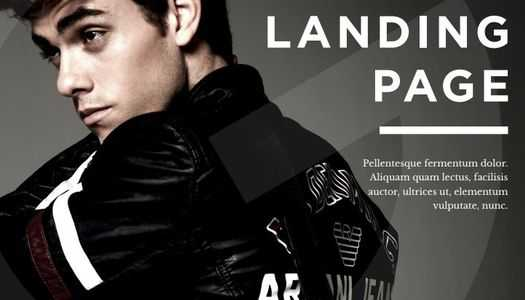
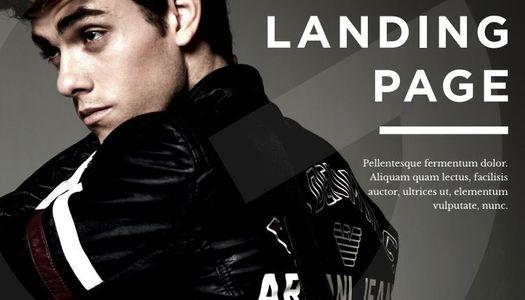
tweaking the mid section and adding dummy page

diff --git a/landing-page-design.html b/landing-page-design.html
@@ -1,0 +1,8 @@
+<!DOCTYPE html><html lang=en><head><meta charset=utf-8><meta http-equiv=X-UA-Compatible content="IE=edge"><meta name=viewport content="width=device-width, initial-scale=1"><title>Nate Hadinata: Digital Design</title><link rel=icon type=image/x-icon href=favicon-nh.ico><style>/*!
+ * Bootstrap v3.3.5 (http://getbootstrap.com)
+ * Copyright 2011-2015 Twitter, Inc.
+ * Licensed under MIT (https://github.com/twbs/bootstrap/blob/master/LICENSE)
+ */img{border:0}body,figure{margin:0}.text-nowrap{white-space:nowrap}.col-xs-12,.col-xs-3,.col-xs-6{float:left}html{font-family:sans-serif;-ms-text-size-adjust:100%;-webkit-text-size-adjust:100%}figcaption,figure,footer,header,section{display:block}a{background-color:transparent;color:#337ab7;text-decoration:none}a:active,a:hover{outline:0}body{background-color:#fff}img{vertical-align:middle}*,:after,:before{-webkit-box-sizing:border-box;-moz-box-sizing:border-box;box-sizing:border-box}html{font-size:10px;-webkit-tap-highlight-color:transparent}body{font-family:"Helvetica Neue",Helvetica,Arial,sans-serif;font-size:14px;line-height:1.42857143;color:#333}a:focus,a:hover{color:#23527c;text-decoration:underline}a:focus{outline:dotted thin;outline:-webkit-focus-ring-color auto 5px;outline-offset:-2px}.img-responsive{display:block;max-width:100%;height:auto}.img-rounded{border-radius:6px}h1,h2,h3,h4{font-family:inherit;font-weight:500;line-height:1.1;color:inherit}h1{margin:20px 0 10px}h2,h3{margin-top:20px}h2,h3,h4{margin-bottom:10px}h4{margin-top:10px}h1{font-size:36px}h2{font-size:30px}h3{font-size:24px}h4{font-size:18px}p{margin:0 0 10px}.text-center{text-align:center}ol,ul{margin-top:0;margin-bottom:10px}@media (min-width:768px){.container{width:750px}}.container{margin-right:auto;margin-left:auto;padding-left:15px;padding-right:15px}@media (min-width:992px){.container{width:970px}}@media (min-width:1200px){.container{width:1170px}}.row{margin-left:-15px;margin-right:-15px}.col-md-12,.col-md-6,.col-sm-6,.col-xs-12,.col-xs-3,.col-xs-6{position:relative;min-height:1px;padding-left:15px;padding-right:15px}.col-xs-12{width:100%}.col-xs-6{width:50%}.col-xs-3{width:25%}@media (min-width:768px){.col-sm-6{float:left;width:50%}}@media (min-width:992px){.col-md-12,.col-md-6{float:left}.col-md-12{width:100%}.col-md-6{width:50%}}.breadcrumb{padding:8px 15px;margin-bottom:20px;list-style:none;background-color:#f5f5f5;border-radius:4px}.breadcrumb>li{display:inline-block}.breadcrumb>li+li:before{content:"/\00a0";padding:0 5px;color:#ccc}.breadcrumb>.active{color:#777}.container:after,.container:before,.row:after,.row:before{content:" ";display:table}.container:after,.row:after{clear:both}.center-block{display:block;margin-left:auto;margin-right:auto}@-ms-viewport{width:device-width}</style><!--[if lt IE 9]>
+ <script src="https://oss.maxcdn.com/html5shiv/3.7.2/html5shiv.min.js"></script>
+ <script src="https://oss.maxcdn.com/respond/1.4.2/respond.min.js"></script>
+ <![endif]--><link rel=stylesheet href=https://maxcdn.bootstrapcdn.com/font-awesome/4.4.0/css/font-awesome.min.css><style>a.button:active,a.button:focus,a.button:hover{text-decoration:none}.footer,.project-footer,div.featured{border-top:1px solid #cfdbdc}@font-face{font-family:Roboto;font-style:normal;font-weight:300;src:local('Roboto Light'),local('Roboto-Light'),url(https://fonts.gstatic.com/s/roboto/v18/KFOlCnqEu92Fr1MmSU5fBBc9.ttf) format('truetype')}@font-face{font-family:Roboto;font-style:normal;font-weight:500;src:local('Roboto Medium'),local('Roboto-Medium'),url(https://fonts.gstatic.com/s/roboto/v18/KFOlCnqEu92Fr1MmEU9fBBc9.ttf) format('truetype')}@font-face{font-family:'Roboto Condensed';font-style:normal;font-weight:300;src:local('Roboto Condensed Light'),local('RobotoCondensed-Light'),url(https://fonts.gstatic.com/s/robotocondensed/v16/ieVi2ZhZI2eCN5jzbjEETS9weq8-33mZGCQYag.ttf) format('truetype')}body{font-family:Roboto,sans-serif;color:#3c5254;background:#e7f0f1;background:linear-gradient(#BED3D6,#e7f0f1 30%);font-size:16px;font-weight:300}a.button,h3,h4{font-weight:500}h1,h2{font-family:'Roboto Condensed',sans-serif}h3{font-size:15px;margin-top:10px}@media screen and (min-width:500px){h3{font-size:16px}}h4,li,p{font-size:1.1em}p{margin:10px 0;line-height:1.8em;letter-spacing:.2px}li{line-height:1.5em}a{color:#00aac0}a:active,a:focus,a:hover{color:#00d1e8}img{background-color:#708d90}.container,.header-bg{background-color:none}.layout-padding-top{padding-top:2em}.layout-padding-bottom{padding-bottom:2em}@media screen and (max-width:500px){.layout-padding-top{padding-top:4em}.layout-padding-bottom{padding-bottom:3em}a.button{text-align:center}}.container{margin:0 auto}header{margin-bottom:15px}.header-bg{background-repeat:no-repeat;height:76px}@media screen and (min-width:500px){.header-bg{height:130px}}.header-logo{background-color:transparent;margin:-3px 0 0 -15px;height:80px;float:left;opacity:.75;transition:opacity .2s}.header-logo:hover{opacity:9;filter:alpha(opacity=90);cursor:pointer}.career-text{font-size:.4em}@media screen and (min-width:500px){.header-logo{height:135px}.career-text{font-size:.6em}}.description{max-width:700px}img.profile{max-width:100%;float:left;margin:0 15px 15px 0}p.profile{margin:0}a.button{background:#f1f1f1;background:-moz-linear-gradient(180deg,#f1f1f1 0,#f1f1f1 80%,#f1f1f1 100%);background:-webkit-linear-gradient(180deg,#f1f1f1 0,#f1f1f1 80%,#f1f1f1 100%);background:linear-gradient(180deg,#f1f1f1 0,#f1f1f1 80%,#f1f1f1 100%);margin:1em 0;display:inline-block;border:1px solid #cfdbdc;padding:14px 30px 15px;border-radius:5px;color:#3c5254;box-shadow:0 2px 2px -1px rgba(0,0,0,.2);transition:all 50ms}a.button:hover{background:#fff;background:-moz-linear-gradient(180deg,#fff 0,#fff 80%,#fff 100%);background:-webkit-linear-gradient(180deg,#fff 0,#fff 80%,#fff 100%);background:linear-gradient(180deg,#fff 0,#fff 80%,#fff 100%);box-shadow:0 3px 3px -1px rgba(0,0,0,.2);transform:scale(1.01)}a.button:active{background:#f1f1f1;background:-moz-linear-gradient(180deg,#f1f1f1 0,#f1f1f1 80%,#f1f1f1 100%);background:-webkit-linear-gradient(180deg,#f1f1f1 0,#f1f1f1 80%,#f1f1f1 100%);background:linear-gradient(180deg,#f1f1f1 0,#f1f1f1 80%,#f1f1f1 100%);box-shadow:0 1px 1px -1px rgba(0,0,0,.2);transform:scale(.99)}div.featured{margin:10px 0 15px}h2.featured{margin:0;color:#708d90;font-size:26px;text-transform:uppercase}@media screen and (min-width:500px){.featured{font-size:30px}}.projects{margin:15px 0 5px}@media screen and (max-width:350px){.projects{width:100%}}@media screen and (min-width:700px){.projects{width:33.33%}}@media screen and (min-width:1200px){.projects{width:25%}}.footer{padding:3em 1em 1em;margin:3em 1em 1em}.footer>div>a{color:#708d90;transition:color .2s}.footer>div>a:active,.footer>div>a:focus,.footer>div>a:hover{color:#3c5254}.shadow{-webkit-box-shadow:0 1px 3px rgba(0,0,0,.3);-moz-box-shadow:0 1px 3px rgba(0,0,0,.3);box-shadow:0 1px 3px rgba(0,0,0,.3)}.highlight:hover{transition:.2s;opacity:.7;filter:alpha(opacity=70);cursor:pointer}.fa-3x{font-size:2em}@media screen and (min-width:500px){.fa-3x{font-size:3em}}ol.breadcrumb{padding:.5em 1em .5em 0;margin-bottom:1em;list-style:none;background:0 0}.project-title{margin:10px 0 15px;color:#3c5254;font-size:26px}.project-footer{padding:3em 1em 1em;margin:3em 1em 1em}.project-footer>div>a{color:#3c5254;transition:color .2s}.project-footer>div>a:active,.project-footer>div>a:focus,.project-footer>div>a:hover{color:#cfdbdc}figcaption{margin:1em}.effect8{position:relative;-webkit-box-shadow:0 1px 6px rgba(0,0,0,.3);-moz-box-shadow:0 1px 6px rgba(0,0,0,.3);box-shadow:0 1px 6px rgba(0,0,0,.3)}.effect8:after,.effect8:before{content:"";position:absolute;z-index:-1;-webkit-box-shadow:0 0 20px rgba(0,0,0,.8);-moz-box-shadow:0 0 20px rgba(0,0,0,.8);box-shadow:0 0 20px rgolba(0,0,0,.8);top:10px;bottom:10px;left:0;right:0;-moz-border-radius:100px/10px;border-radius:100px/10px}.effect8:after{right:10px;left:auto;-webkit-transform:skew(8deg)rotate(3deg);-moz-transform:skew(8deg)rotate(3deg);-ms-transform:skew(8deg)rotate(3deg);-o-transform:skew(8deg)rotate(3deg);transform:skew(8deg)rotate(3deg)}</style><script>(function(i,s,o,g,r,a,m){i['GoogleAnalyticsObject']=r;i[r]=i[r]||function(){(i[r].q=i[r].q||[]).push(arguments)},i[r].l=1*new Date();a=s.createElement(o),m=s.getElementsByTagName(o)[0];a.async=1;a.src=g;m.parentNode.insertBefore(a,m)})(window,document,'script','//www.google-analytics.com/analytics.js','ga');ga('create', 'UA-67390527-1', 'auto');ga('require', 'displayfeatures');ga('send', 'pageview');</script></head><body><div class=container><header class=row><div class="col-xs-12 header-bg"><a href="/" title="Nate Hadinata, UX Designer" alt="Nate Hadinata, UX Designer"><img src=img/nhd-logo-lite.svg alt="Nate Hadinata Design Logo" class=header-logo></a></div></header><div class=row><div class=col-md-12><ol class=breadcrumb><li><a href="/">Home</a></li><li class=active>Landing Page Design</li></ol></div><div class=col-md-12><h2 class=project-title>Landing Page Design</h2><p>Brand direction 1</p><figure><img src=img/design-logo.jpg alt="Buddy Logo Design" class="img-responsive center-block img-rounded shadow"><figcaption class=text-center>Buddy Logo Design</figcaption></figure><p>Brand direction 2</p><figure><img src=img/design-social-media-1.jpg alt="Why Do You Campaign" class="img-responsive center-block img-rounded shadow"><figcaption class=text-center>PurposeMatch.com, "Why Do You Do What You Do?" Social Media Campaign</figcaption></figure><p>Brand direction 3</p><figure><img src=img/design-social-media-2.jpg alt="Blog/Social Media Hero Image" class="img-responsive center-block img-rounded shadow"><figcaption class=text-center>Blog/Social Media Hero Image</figcaption></figure></div></div><footer class="row text-center project-footer"><div class=col-xs-3><a href=https://github.com/nhadinat title="Nate's GitHub Profile" alt="Nate's GitHub Profile" target=_blank><i class="fa fa-github fa-3x"></i></a></div><div class=col-xs-3><a href="http://codepen.io/nhadinat/" title="Nate's Codepen Profile" alt="Nate's Codepen Profile" target=_blank><i class="fa fa-codepen fa-3x"></i></a></div><div class=col-xs-3><a href=https://www.behance.net/natehadinata title="Nate's Behance Portfolio" alt="Nate's Behance Portfolio" target=_blank><i class="fa fa-behance fa-3x"></i></a></div><div class=col-xs-3><a href=https://www.linkedin.com/in/nathanhadinata title="Nate's LinkedIn Profile" alt="Nate's LinkedIn Profile" target=_blank><i class="fa fa-linkedin fa-3x"></i></a></div></footer></div><script src=https://ajax.googleapis.com/ajax/libs/jquery/2.1.3/jquery.min.js></script><script src=js/bootstrap.min.js></script></body></html>

diff --git a/src/landing-page-design.html b/src/landing-page-design.html
@@ -1,0 +1,86 @@
+<!DOCTYPE html>
+<html lang="en">
+  <head>
+    <meta charset="utf-8">
+    <meta http-equiv="X-UA-Compatible" content="IE=edge">
+    <meta name="viewport" content="width=device-width, initial-scale=1">
+    <!-- The above 3 meta tags *must* come first in the head; any other head content must come *after* these tags -->
+    <title>Nate Hadinata: Digital Design</title>
+    <link rel="icon" type="image/x-icon" href="favicon-nh.ico" />
+
+    <!-- Bootstrap -->
+    <link href="css/bootstrap.min.css" rel="stylesheet" inline>
+
+    <!-- HTML5 shim and Respond.js for IE8 support of HTML5 elements and media queries -->
+    <!-- WARNING: Respond.js doesn't work if you view the page via file:// -->
+    <!--[if lt IE 9]>
+      <script src="https://oss.maxcdn.com/html5shiv/3.7.2/html5shiv.min.js"></script>
+      <script src="https://oss.maxcdn.com/respond/1.4.2/respond.min.js"></script>
+    <![endif]-->
+
+    <!-- Font Awesome -->
+    <link rel="stylesheet" href="https://maxcdn.bootstrapcdn.com/font-awesome/4.4.0/css/font-awesome.min.css">
+    <!-- Custom Styles -->
+    <link href="css/style.min.css" rel="stylesheet" inline>
+    <!-- Google Analytics -->
+    <script>(function(i,s,o,g,r,a,m){i['GoogleAnalyticsObject']=r;i[r]=i[r]||function(){(i[r].q=i[r].q||[]).push(arguments)},i[r].l=1*new Date();a=s.createElement(o),m=s.getElementsByTagName(o)[0];a.async=1;a.src=g;m.parentNode.insertBefore(a,m)})(window,document,'script','//www.google-analytics.com/analytics.js','ga');ga('create', 'UA-67390527-1', 'auto');ga('require', 'displayfeatures');ga('send', 'pageview');</script>
+  </head>
+  <body>
+    <div class="container">
+
+      <!--Header-->
+      <header class="row">
+        <div class="col-xs-12 header-bg">
+          <a href="/" title="Nate Hadinata, UX Designer" alt="Nate Hadinata, UX Designer"><img src="img/nhd-logo-lite.svg" alt="Nate Hadinata Design Logo" class="header-logo"></a>
+        </div>
+      </header>
+
+      <!--Featured Project Section-->
+      <div class="row">
+        <div class="col-md-12">
+          <ol class="breadcrumb">
+            <li><a href="/">Home</a></li>
+            <li class="active">Landing Page Design</li>
+          </ol>
+        </div>
+        <div class="col-md-12">
+          <h2 class="project-title">Landing Page Design</h2>
+          <p>Brand direction 1</p>
+          <figure>
+            <img src="img/design-logo.jpg" alt="Buddy Logo Design" class="img-responsive center-block img-rounded shadow">
+            <figcaption class="text-center">Buddy Logo Design</figcaption>
+          </figure>
+          <p>Brand direction 2</p>
+          <figure>
+            <img src="img/design-social-media-1.jpg" alt="Why Do You Campaign" class="img-responsive center-block img-rounded shadow">
+            <figcaption class="text-center">PurposeMatch.com, "Why Do You Do What You Do?" Social Media Campaign</figcaption>
+          </figure>
+          <p>Brand direction 3</p>
+          <figure>
+            <img src="img/design-social-media-2.jpg" alt="Blog/Social Media Hero Image" class="img-responsive center-block img-rounded shadow">
+            <figcaption class="text-center">Blog/Social Media Hero Image</figcaption>
+          </figure>
+        </div>
+      </div>
+
+      <!--Footer-->
+      <footer class="row text-center project-footer">
+        <div class="col-xs-3">
+          <a href="https://github.com/nhadinat" title="Nate's GitHub Profile" alt="Nate's GitHub Profile" target="_blank"><i class="fa fa-github fa-3x"></i></a>
+        </div>
+        <div class="col-xs-3">
+          <a href="http://codepen.io/nhadinat/" title="Nate's Codepen Profile" alt="Nate's Codepen Profile" target="_blank"><i class="fa fa-codepen fa-3x"></i></a>
+        </div>
+        <div class="col-xs-3">
+          <a href="https://www.behance.net/natehadinata" title="Nate's Behance Portfolio" alt="Nate's Behance Portfolio" target="_blank"><i class="fa fa-behance fa-3x"></i></a>
+        </div>
+        <div class="col-xs-3">
+          <a href="https://www.linkedin.com/in/nathanhadinata" title="Nate's LinkedIn Profile" alt="Nate's LinkedIn Profile" target="_blank"><i class="fa fa-linkedin fa-3x"></i></a>
+        </div>
+      </footer>
+    </div>
+
+    <!-- jQuery (necessary for Bootstrap's JavaScript plugins) -->
+    <script src="https://ajax.googleapis.com/ajax/libs/jquery/2.1.3/jquery.min.js"></script>
+    <!-- Include all compiled plugins (below), or include individual files as needed -->
+    <script src="js/bootstrap.min.js"></script>
